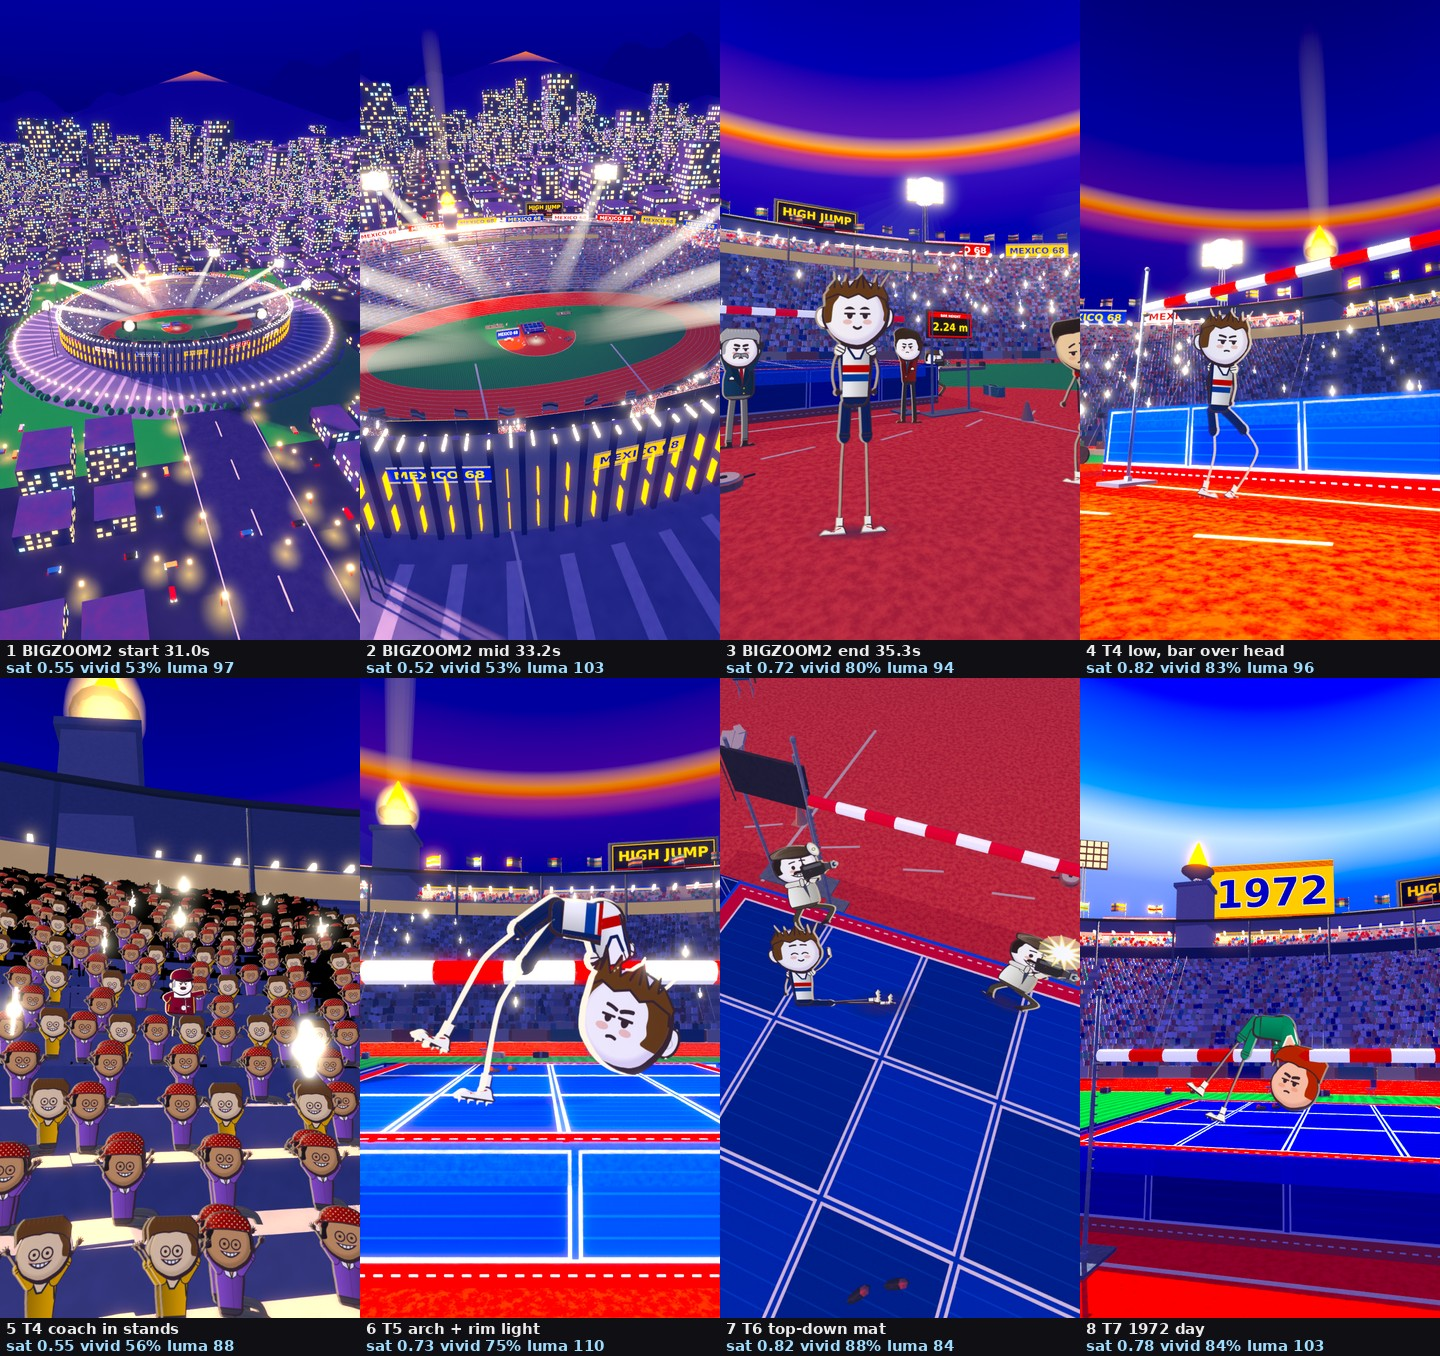
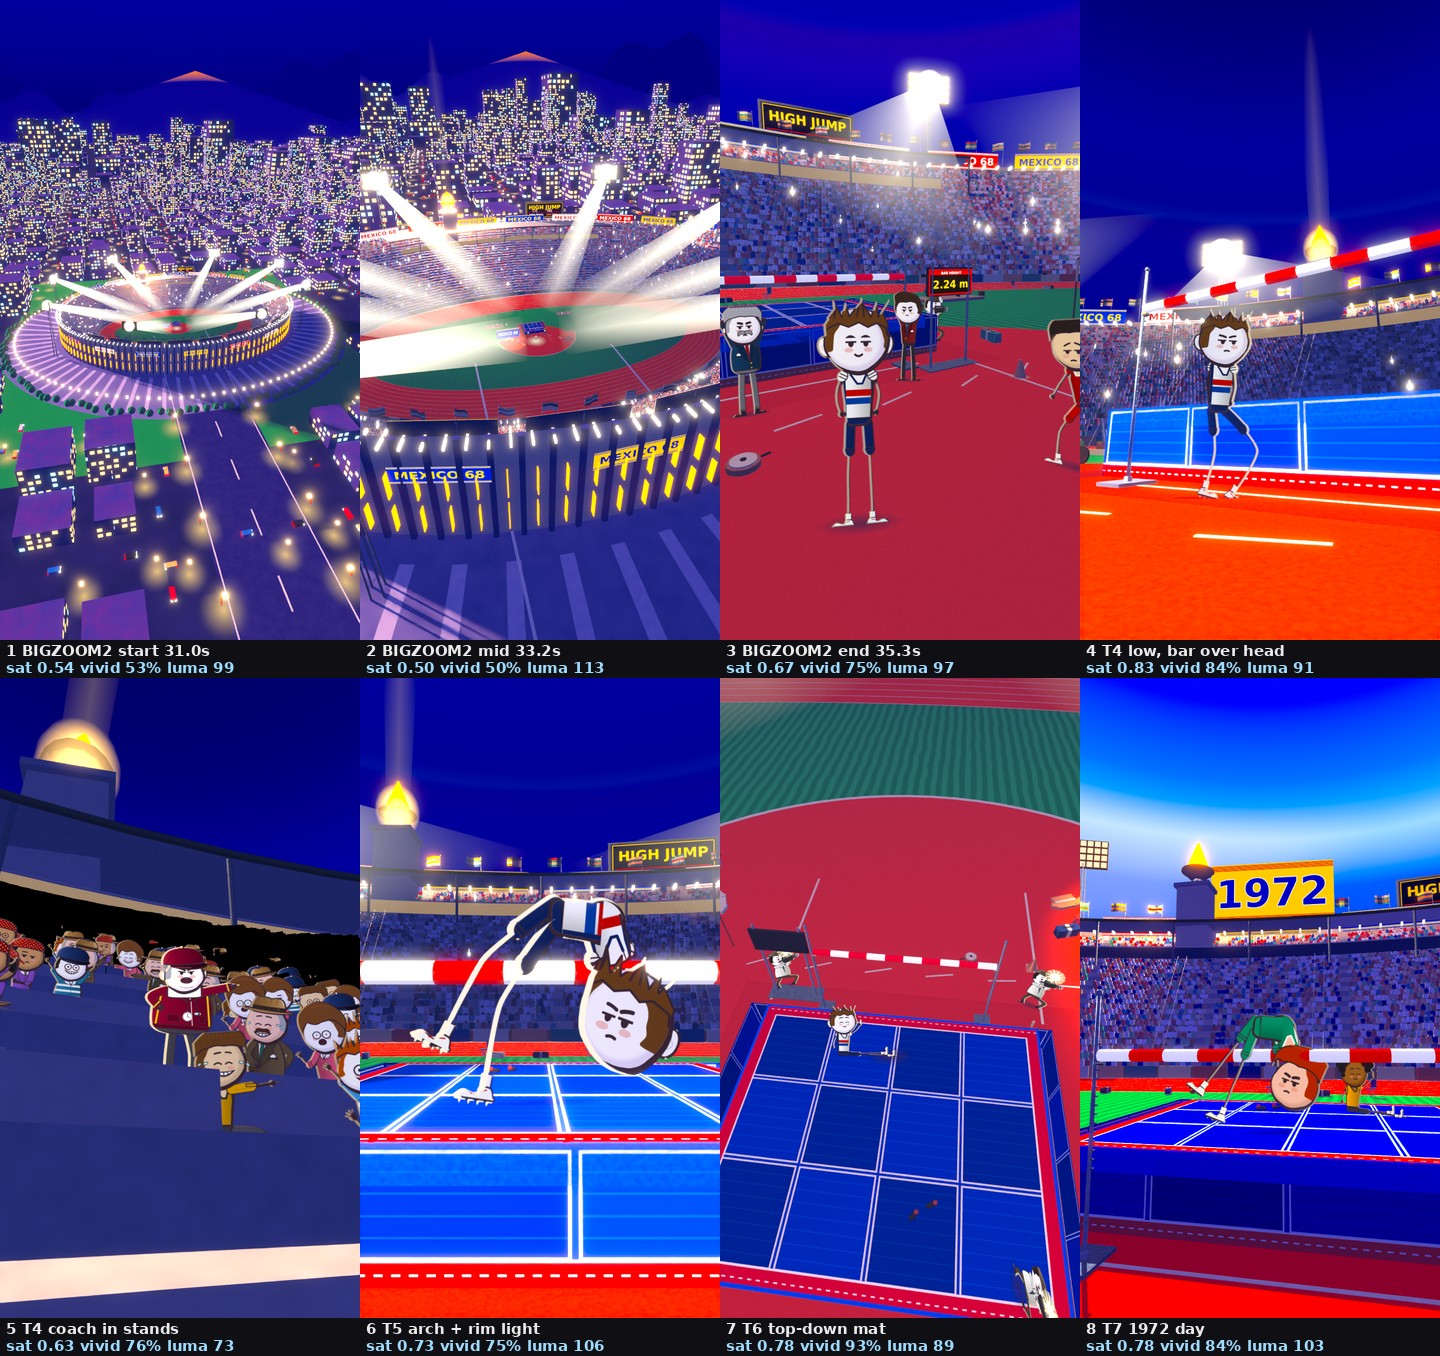
film15 v2 B: QA-art fixes, beam ribbons (render 128->25 s), stills + sheet
Claude-Session: https://claude.ai/code/session_017iwyCvV4FWE8oAoH1CANdN

diff --git a/film/v3/set3d15/API_v2_b.md b/film/v3/set3d15/API_v2_b.md
@@ -50,4 +50,8 @@ bz_start, bz_mid, bz_end, t4_low, t4_coach, t5_arch, t6_top, t7_day. `python3 v2
 ## Notes / limits
 - The bar of T4 low is set to 2.46 m so it sits about 30 cm over Dick's head (skull 2.03 m, hair 2.19 m); the "2.24 m" board is a sign (BIGZOOM 2 end uses the real 2.24 m bar).
 - The apron and mat: bar at y 11.6 m, mat front edge at y 12.3 m (set15 geometry), so a flop's shadow is placed on the front of the mat, not directly under the arch.
-- Far windows shimmer a little at 12 samples when the camera moves; the far skyline uses 3x larger cells to limit it. Render cost: 10-16 s wall per frame for pit views, 4-6 s for the far views (2 threads, parallel processes ok).
+- Far windows shimmer a little at 12 samples when the camera moves; the far skyline uses 3x larger cells to limit it.
+- **Render cost (solo, final 720x1280, 12 spl, 2 threads, wall s per frame).** Before: bz_end 128 s (255 CPU-s), t4_low 81 s, t5_arch 87 s (QA-tech measured 142 / 107 s under load). Cause: the 8 beams were double-sided cones, so a ray crossed ~16 transparent layers (and 6 transparent bounces turned the frame black); culling the city / skyline / cars alone only gave 128 -> 115 s. Fix: each beam (and the torch column) is now ONE camera-facing ribbon (LOCKED_TRACK constraint to the camera, one transparent hit per ray; `B2.bind_beams(cam)` is called by `make_camera_m`, so a camera made any other way needs `B2.bind_beams(cam)`), transparent bounces 12. After: bz_end 25.5 s, t4_low 29.5, t4_coach 40 (600+ cards), t5_arch 25.1, t6_top 30.3, t7_day 12.7; far views bz_start 12.7, bz_mid 14.2. `B2.build(..., fast=True)` (default for pit/stand stills via `V2B_FAST=1`) also drops the city, skyline, cars and lamps and uses 900 sparkles instead of 3,200; use `fast=False` for any frame that sees the city (BIGZOOM 2 frames above about 40 m: city off is only safe inside the bowl).
+- `card()` / `put()` face the camera at the CALL frame only (yaw about Z, fixed afterwards): for an animated camera re-orient each card per frame (set `rotation_euler.z` from the camera position) or place per frame.
+- Frame ownership: frame 1059 (BIGZOOM 2's last frame, 35.3 s) belongs to T4 (35.27 s start); frame 1652 (55.08 s) belongs to T6. T3 renders 31.0-35.27 (frames 930-1058).
+- v2 fixes after QA-art: orange sky arc removed (the horizon band is violet now), tartan mottle finer and calmer, coach still uses randomised crowd cards (6 casts, mirrored, jittered) with a clear space around him and no sparkles, bz_end camera is higher (z 2.45) so the bar clears Dick's head, t6_top wider with 3 photographers and no stray shoes on the mat, t7 has jumpers in green (flop), gold (sitting thumbs-up) and red (waiting) kits.
